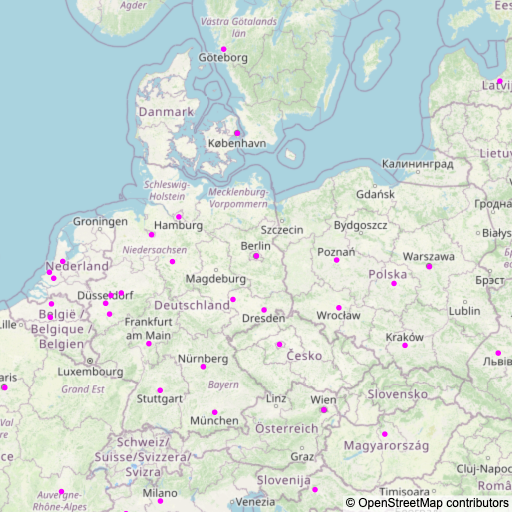
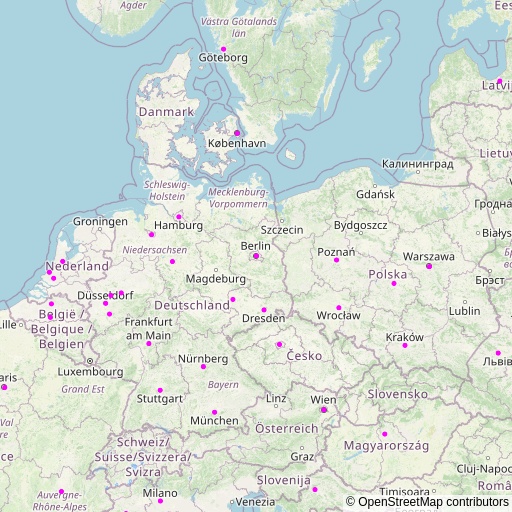
Updated images on Sun May 14 13:21:43 UTC 2023  with GitHub Actions

diff --git a/rainviewer_api.py b/rainviewer_api.py
@@ -9,7 +9,7 @@
 
 
 
-# In[1]:
+# In[48]:
 
 
 import requests
@@ -20,11 +20,30 @@ from timezonefinder import TimezoneFinder
 from datetime import datetime
 import pytz
 
-from PIL import Image, ImageDraw, ImageFont
+from PIL import Image, ImageDraw, ImageFont, ImageSequence
 from io import BytesIO
 
 import glob
 import os
+
+import pandas as pd
+import geopandas as gpd
+import plotly.express as px
+
+
+# In[49]:
+
+
+# import matplotlib.pyplot as plt
+# import geoplot as gplt
+# import geoplot.crs as gcrs
+# import pyproj
+
+
+# In[77]:
+
+
+
 
 
 # ## 1. Getting the coordinates
@@ -66,7 +85,7 @@ print(tz_value)
 # https://www.rainviewer.com/api/weather-maps-api.html
 
 
-# In[6]:
+# In[68]:
 
 
 weather_url = "https://api.rainviewer.com/public/weather-maps.json"
@@ -74,7 +93,7 @@ weather_response = requests.get(weather_url)
 weather_response.status_code
 
 
-# In[7]:
+# In[69]:
 
 
 # weather_response.text
@@ -82,13 +101,13 @@ weather_request = weather_response.request
 weather_request.headers
 
 
-# In[32]:
+# In[70]:
 
 
 # weather_response.json()
 
 
-# In[10]:
+# In[71]:
 
 
 print("Time of request:")
@@ -96,9 +115,58 @@ request_time = datetime.fromtimestamp(weather_response.json()['generated'], tz=t
 print(request_time.strftime("%Y-%m-%d %H:%M:%S %Z"))
 
 
-# ## 3. Saving images and creating a gif
+# ## 3. Plotting the geomap
 
-# In[41]:
+# In[123]:
+
+
+my_zoom = 4
+
+
+# In[82]:
+
+
+cities = pd.read_csv("worldcities.csv")
+cities_coord = cities[['city', 'lat', 'lng', 'iso2', 'population']].sort_values('population', ascending=False)
+
+cities_coord_gdf = gpd.GeoDataFrame(
+    cities_coord, geometry=gpd.points_from_xy(cities_coord.lng, cities_coord.lat), crs="EPSG:4326"
+)
+cities_coord_gdf.head()
+
+
+# In[79]:
+
+
+center_dict = {'lat': my_coordinates[0], 'lon': my_coordinates[1]}
+
+
+# In[122]:
+
+
+back_dir = "background_png"
+
+# os.mkdir(back_dir)
+
+
+# In[124]:
+
+
+fig = px.scatter_mapbox(cities_coord_gdf[cities_coord_gdf['population'] >= 500000], 
+                        lat="lat", lon="lng",
+                        color_discrete_sequence=["fuchsia"], 
+                        zoom=my_zoom, height=512, width=512,
+                        center=center_dict)
+fig.update_layout(mapbox_style="open-street-map")
+fig.update_layout(margin={"r":0,"t":0,"l":0,"b":0})
+# fig.show()
+# fig.write_image("berlin_zoom_4.png")
+fig.write_image(back_dir + "/" + str.lower(location_name) + "_zoom_" + str(my_zoom) + ".png")
+
+
+# ## 4. Saving images and creating a gif
+
+# In[83]:
 
 
 # function: 
@@ -147,7 +215,7 @@ def download_png_by_url(weather_response, my_coordinates, size, zoom, color, smo
                 dir_name = png_nowcast_dir
             else:
                 break
-            img = img.save(dir_name + "/" + str.lower(location_name) + " {}.png".format(dd['time']))
+            img = img.save(dir_name + "/" + str.lower(location_name) + "_{}.png".format(dd['time']))
             
 #         print("OK:", dttm.strftime("%Y-%m-%d %H:%M:%S %Z"))
         print("Done:", text1)
@@ -166,11 +234,11 @@ def clear_folder(folder):
         os.remove(f)
 
 
-# In[36]:
+# In[101]:
 
 
 def filename_key(x):
-    return int(x.split()[1].split('.')[0])
+    return int(x.split('_')[-1].split('.')[0])
 
 def make_gif(source_folder, target_folder):
     frames = [Image.open(image) for image in sorted(glob.glob(f"{source_folder}/*.png"), key=lambda x: filename_key(x))]
@@ -181,7 +249,23 @@ def make_gif(source_folder, target_folder):
 # disposal=2 - for replacement instead of overlaying 
 
 
-# In[12]:
+# In[119]:
+
+
+def gif_merge_back(gif_path, back_path, output_folder):
+    gif_im = Image.open(gif_path)
+    background = Image.open(back_path)
+    frames = []
+    for im_frame in ImageSequence.Iterator(gif_im):
+        frame = background.copy()
+        frame.paste(im_frame, mask=im_frame.convert("LA"))
+        frames.append(frame)
+    gif_name = gif_path.split('/')[-1].split('.')[0]
+    frames[0].save(output_folder + "/" + gif_name + "_back.gif", save_all=True, duration=300, append_images=frames[1:], loop=0)
+    
+
+
+# In[62]:
 
 
 # defining directories for saving images and gifs
@@ -195,22 +279,22 @@ gif_dir = 'past_gif'
 # os.mkdir(gif_dir)
 
 
-# In[42]:
+# In[84]:
 
 
 # saving images for past timestamps
 
 download_png_by_url(weather_response, my_coordinates, 
-                    size=512, zoom=3, color=4, smooth=0, snow=0, key='past', save_flg=1)
+                    size=512, zoom=my_zoom, color=4, smooth=0, snow=0, key='past', save_flg=1)
 
 
-# In[43]:
+# In[125]:
 
 
 # saving forecast images
 
 download_png_by_url(weather_response, my_coordinates, 
-                    size=512, zoom=3, color=4, smooth=0, snow=0, key='nowcast', save_flg=1)
+                    size=512, zoom=my_zoom, color=4, smooth=0, snow=0, key='nowcast', save_flg=1)
 
 
 # In[37]:
@@ -222,10 +306,16 @@ clear_folder(gif_dir)
 make_gif(png_past_dir, gif_dir)
 
 
-# In[ ]:
+# In[127]:
 
 
+# adding the map background under the rain mask
+                    
+gif_path = [f for f in glob.glob(gif_dir + '/*.gif')][0]
+back_path = [f for f in glob.glob(back_dir + '/*.png')][0]
+output_folder = gif_dir
 
+gif_merge_back(gif_path, back_path, output_folder)
 
 
 # # ====== NOTES:
